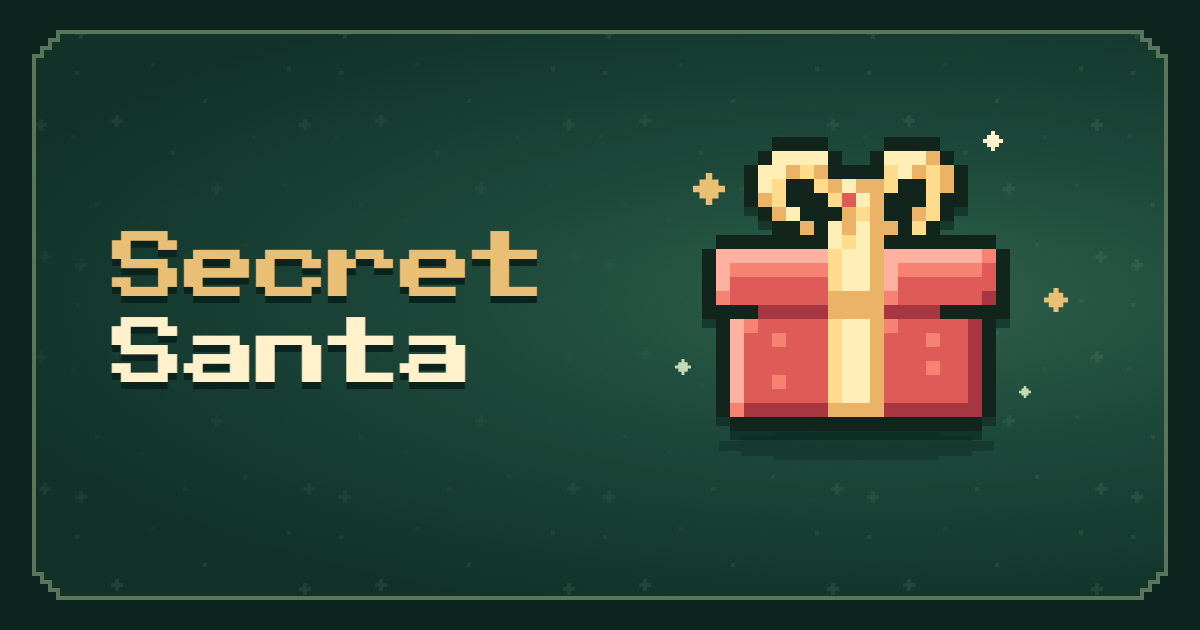
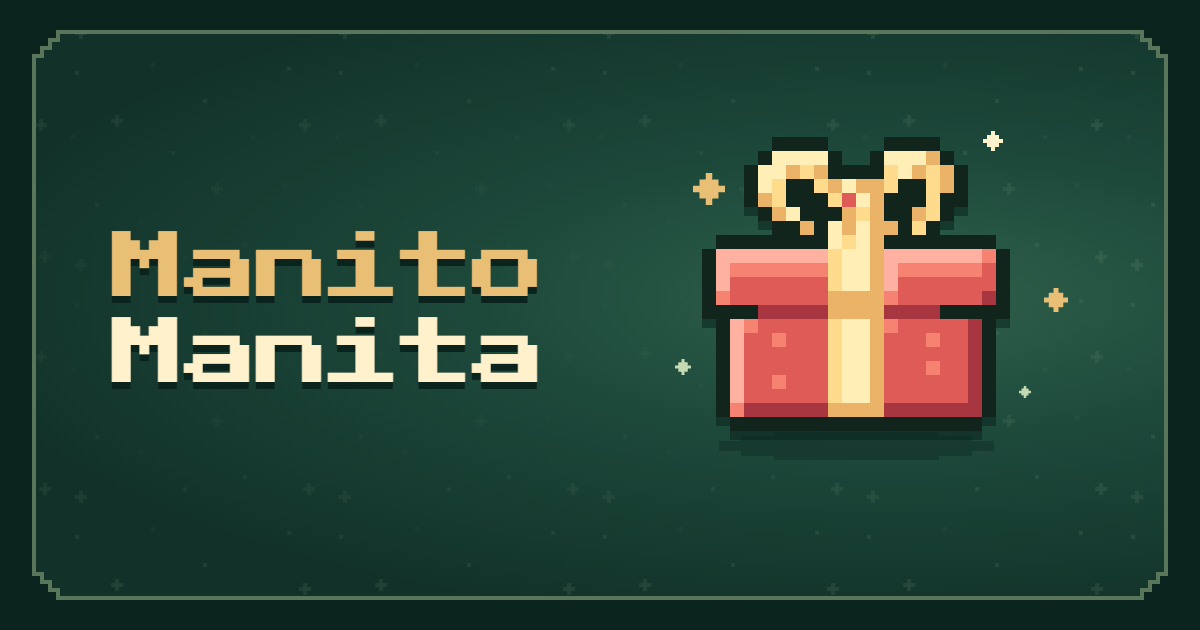
Rename gift exchange to Manito Manita

Changed region(s): [[0.0925, 0.3619, 0.4625, 0.6333]]

diff --git a/app/exchange.tsx b/app/exchange.tsx
@@ -184,8 +184,8 @@ export default function Exchange({ drawOpen }: { drawOpen: boolean }) {
           <>
             <GiftScene />
             <h1 id="exchange-title" className="welcome-title" ref={title} tabIndex={-1}>
-              <span>Santa</span>{" "}
-              <span>Shuffle</span>
+              <span>Manito</span>{" "}
+              <span>Manita</span>
             </h1>
             <p className="welcome-caption">Secret Santa</p>
             <button className="game-button" onClick={enterExchange} disabled={busy}>

diff --git a/app/avatars/studio.tsx b/app/avatars/studio.tsx
@@ -244,7 +244,7 @@ export default function Studio() {
   return (
     <div className="studio">
       <header className="studio-header">
-        <Link className="game-button game-button--secondary studio-back" href="/">← Santa Shuffle</Link>
+        <Link className="game-button game-button--secondary studio-back" href="/">← Manito Manita</Link>
         <h1>Avatar Studio</h1>
       </header>
 

diff --git a/app/guest-roster.ts b/app/guest-roster.ts
@@ -41,7 +41,7 @@ export function parseGuestRoster(value: unknown): GuestRoster {
     !("version" in value) || value.version !== 1 ||
     !("guests" in value) || !Array.isArray(value.guests)
   ) {
-    throw new Error("Choose a Santa Shuffle roster saved as JSON.");
+    throw new Error("Choose a Manito Manita roster saved as JSON.");
   }
 
   const ids = new Set<string>();

diff --git a/app/layout.tsx b/app/layout.tsx
@@ -13,7 +13,7 @@ const publicPixel = localFont({
 
 export const metadata: Metadata = {
   metadataBase: new URL(`https://${process.env.VERCEL_PROJECT_PRODUCTION_URL || "christmas-lootbox.vercel.app"}`),
-  title: "Santa Shuffle",
+  title: "Manito Manita",
   description: "A Christmas gift exchange.",
   icons: { icon: "/gift.png" },
   openGraph: { type: "website" },

diff --git a/app/avatars/page.tsx b/app/avatars/page.tsx
@@ -3,7 +3,7 @@ import Studio from "./studio";
 import "./studio.css";
 
 export const metadata: Metadata = {
-  title: "Avatar Studio | Santa Shuffle",
+  title: "Avatar Studio | Manito Manita",
 };
 
 export default function AvatarStudioPage() {
